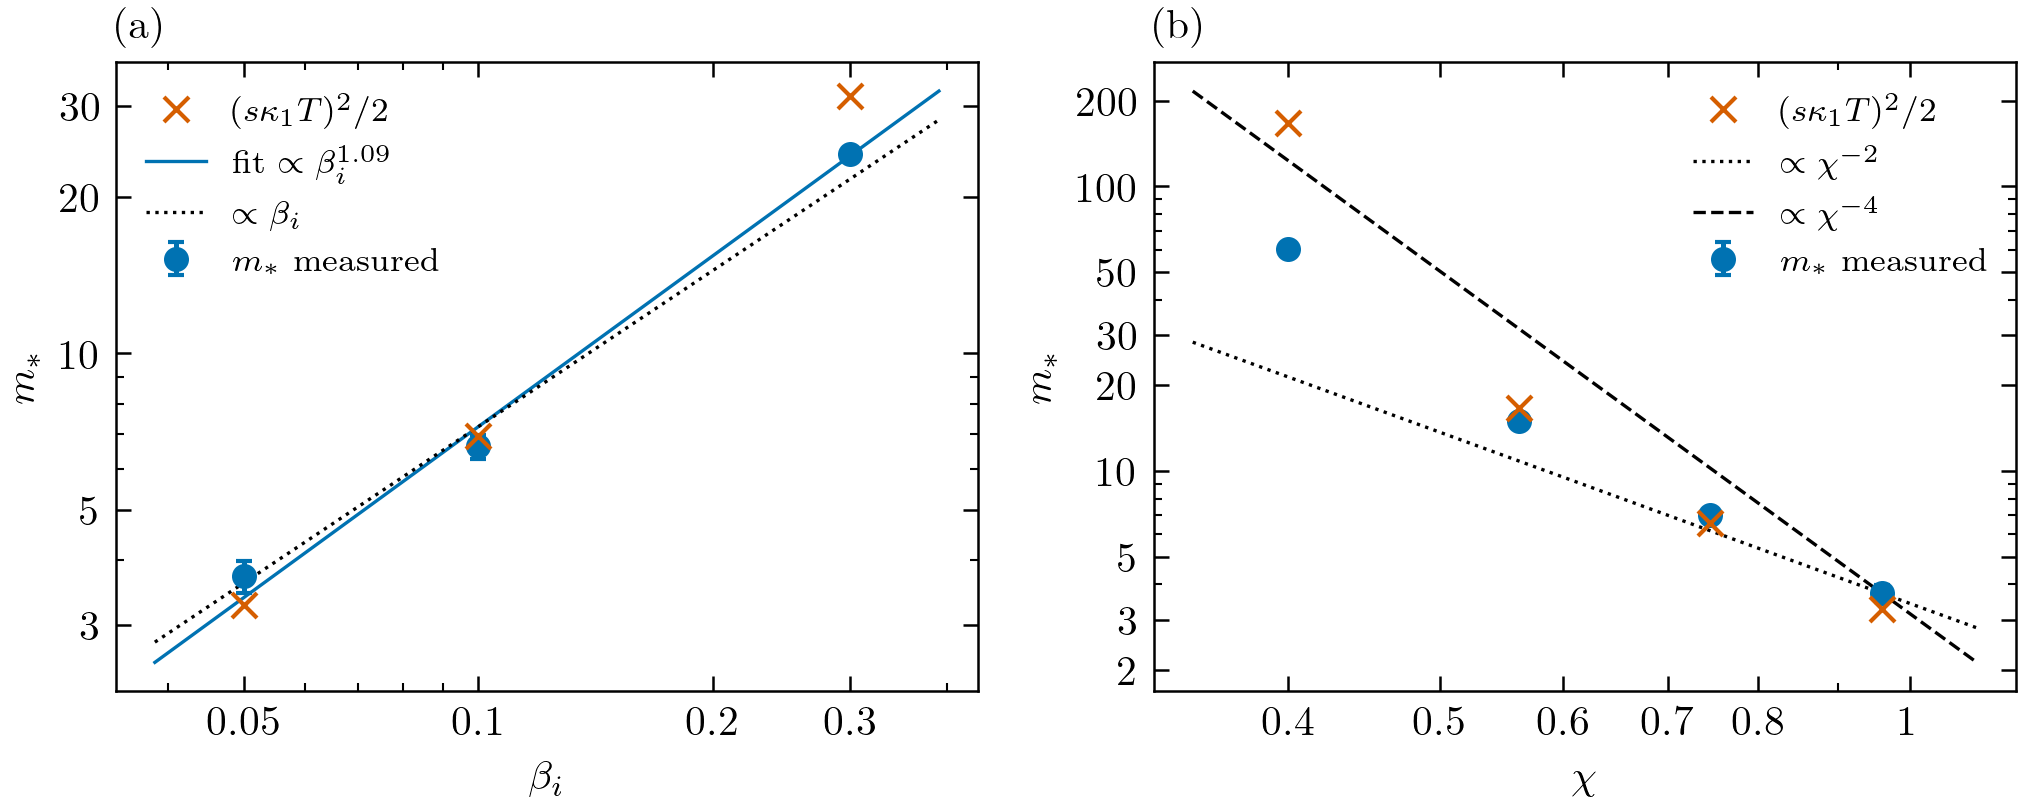
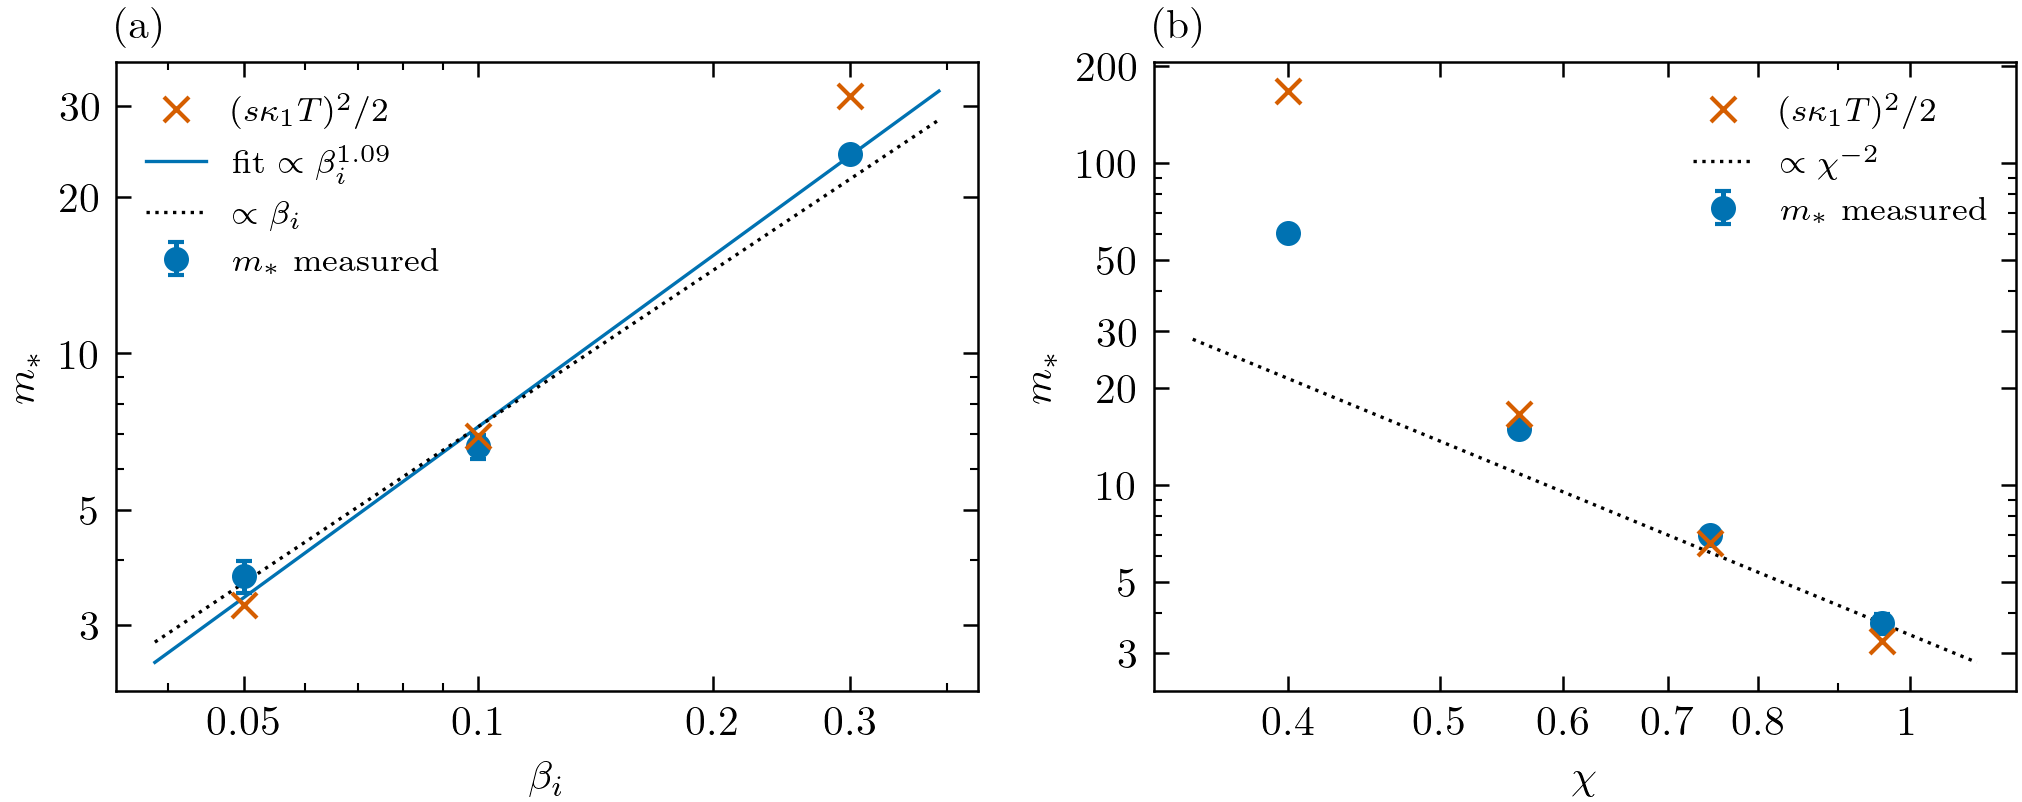
P1 fig:mstar(b): drop the chi^-4 guide line (referee item 1.13; ARGUMENT.md drops the chi^-4 law)
The dashed chi^-4 line was anchored at chi = 0.96 and sat a factor 2
above the chi = 0.40 point, which read as a contradiction of the text.
Panel (b) keeps the chi^-2 reference. Regenerated from the same seven
runs; data/h1_mstar_scan.json is unchanged. Caption updated.

diff --git a/paper/phase-velocity-slices/analysis/h1_mstar_scan.py b/paper/phase-velocity-slices/analysis/h1_mstar_scan.py
@@ -20,8 +20,7 @@ weighted single power law for reference.
 
 Writes figures/h1_mstar.{pdf,png} (JPP double column) and data/h1_mstar_scan.json.
   (a) m_* against beta_i, runs given with --beta (chi_out ~ 0.95);
-  (b) m_* against chi_out, runs given with --chi (one beta_i), with reference slopes chi^-2 and chi^-4 through the
-      run of largest chi.
+  (b) m_* against chi_out, runs given with --chi (one beta_i), with the reference slope chi^-2 through the run of largest chi.
 
 Usage (from the repository root):
     uv run python paper/phase-velocity-slices/analysis/h1_mstar_scan.py --beta <run> [...] --chi <run> [...]
@@ -160,7 +159,7 @@ def main() -> int:
     draw_panel(axb, pb, "chi_out", pal)
     top = max(pb, key=lambda p: p["chi_out"])
     xs = np.geomspace(min(p["chi_out"] for p in pb) / 1.15, top["chi_out"] * 1.15, 50)
-    for k, ls in ((2, ":"), (4, "--")):
+    for k, ls in ((2, ":"),):                       # chi^-2 only: ARGUMENT.md (2026-11-26) drops the chi^-4 law
         axb.plot(xs, top["m_star_win"] * (xs / top["chi_out"]) ** (-k), ls, color=fcfg["reference_color"], lw=0.8,
                  label=rf"$\propto\chi^{{-{k}}}$")
     axb.set_xlabel(r"$\chi$")

diff --git a/paper/phase-velocity-slices/sections/07-simulations.tex b/paper/phase-velocity-slices/sections/07-simulations.tex
@@ -142,7 +142,7 @@ We fit $W(m)\sqrt{2m}\propto\exp(-\sqrt{2m}/\ell_*)$, the form (\ref{eq:Wmodel})
 \begin{figure}[tbp]
   \centering
   \includegraphics[width=\textwidth]{h1_mstar}
-  \caption{The break $m_*=\ell_*^2/2$ from the fit to $W(m)$ (circles, with the standard error of the four block fits) and the model value $(s\kappa_1T)^2/2$ (crosses), at $64^3$. (a) Against $\beta_i$ at $\chi\approx0.95$, with a weighted power-law fit (solid) and $m_*\propto\beta_i$ (dotted). (b) Against the outer-scale $\chi$ at $\beta_i=0.05$, with $\chi^{-2}$ (dotted) and $\chi^{-4}$ (dashed) through the run at $\chi=0.96$ for reference.}
+  \caption{The break $m_*=\ell_*^2/2$ from the fit to $W(m)$ (circles, with the standard error of the four block fits) and the model value $(s\kappa_1T)^2/2$ (crosses), at $64^3$. (a) Against $\beta_i$ at $\chi\approx0.95$, with a weighted power-law fit (solid) and $m_*\propto\beta_i$ (dotted). (b) Against the outer-scale $\chi$ at $\beta_i=0.05$, with $\chi^{-2}$ (dotted) through the run at $\chi=0.96$ for reference.}
   \label{fig:mstar}
 \end{figure}
 
